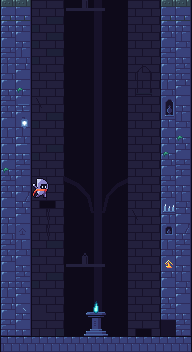
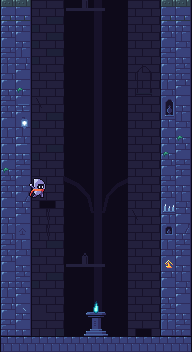
Studio : livrables en cours
Claude-Session: https://claude.ai/code/session_013wkJT9ZrGrrZzfFCfUVAVk

Changed region(s): [[0.8125, 0.9062, 0.9375, 0.9688], [0.1562, 0.5, 0.25, 0.5625]]

diff --git a/jeu/art/out/env/maquette_fonderie.py b/jeu/art/out/env/maquette_fonderie.py
@@ -1,0 +1,45 @@
+#!/usr/bin/env python3
+"""maquette_fonderie.py : mise en situation 192x352 de la Fonderie (procédure F6/F7), même montage que maquette_crypte.py.
+P0/P1 : la Fonderie n'a pas encore de bg0/bg1 propres -> aplat k (#0e0a1a) pour juger murs et bg2 sans aide.
+bg2_fonderie en deux bandes x32-63 et x128-159 ; murs : haut = transition vers la Bibliothèque (y1/y0), bas = transition
+depuis la Crypte (x1/x0) puis une tuile de crypte ; autel palette-swap + flamme sur le sol ; héros idle au mur gauche."""
+from PIL import Image
+import sys
+D = "/home/user/Testing/jeu/art/out/env/"
+HERO = sys.argv[1]
+im = lambda n: Image.open(D + n + ".png").convert("RGBA")
+t = lambda img, x, y, w, h: img.crop((x, y, x + w, y + h))
+W, H = 192, 352
+out = Image.new("RGBA", (W, H), (0x0e, 0x0a, 0x1a, 255))
+bg2 = im("bg2_fonderie")
+P = [t(bg2, i * 32, 0, 32, 32) for i in range(4)]
+for x, seq in ((32, "0010203001200130"), (128, "0100300210020010")):
+    for j, c in enumerate(seq[:11]):
+        out.alpha_composite(P[int(c)], (x, j * 32))
+S = {}
+for side in "LR":
+    S["t", side] = im("wall_fonderie_" + side); S["l", side] = im("wall_fonderie_lit_" + side)
+    S["d", side] = im("wall_fonderie_deco_" + side); S["r", side] = im("rune_fonderie_" + side)
+    S["y", side] = im("wall_fonderie_to_bibliotheque_" + side); S["x", side] = im("wall_crypte_to_fonderie_" + side)
+    S["c", side] = im("wall_crypte_" + side)
+def col(x, side, seq):
+    y = 0
+    for s in seq.split():
+        k, i = s[0], int(s[1:])
+        h = 32 if k == "d" else 16
+        out.alpha_composite(t(S[k, side], i * 16, 0, 16, h), (x, y)); y += h
+SEQ_LI = "y1 y0 t0 t2 t1 t4 l0 d0 l1 t3 t0 t5 t1 r1 t2 t0 t3 t1 t7 x1 x0"
+SEQ_RI = "y1 y0 t1 t3 t0 t2 d1 t0 t4 t1 t3 d2 t6 t2 r0 t1 t0 x1 x0"
+SEQ_LO = "y1 y0 t1 t3 t2 t0 t3 t1 t2 t0 t4 t3 t1 t0 t2 t3 t1 t0 t2 x1 x0"
+SEQ_RO = "y1 y0 t2 t0 t3 t1 t0 t2 t4 t1 t3 t0 t2 t1 d3 t0 t2 t1 x1 x0"
+col(16, "L", SEQ_LI); col(0, "R", SEQ_LO); col(160, "R", SEQ_RI); col(176, "L", SEQ_RO)
+fl = im("floor_start")
+for i in range(12):
+    out.alpha_composite(t(fl, 0 if i == 0 else 32 if i == 11 else 16, 0, 16, 16), (i * 16, 336))
+out.alpha_composite(im("altar_fonderie"), (80, 304))
+out.alpha_composite(t(im("altar_flame"), 16, 0, 8, 16), (92, 299))
+out.alpha_composite(Image.open(HERO).convert("RGBA").crop((0, 0, 32, 32)), (22, 170))
+out.save(D + "maquette_fonderie.png")
+out.resize((W * 3, H * 3), Image.NEAREST).save(D + "maquette_fonderie@3.png")
+out.crop((6, 0, 186, H)).resize((180 * 3, H * 3), Image.NEAREST).save(D + "maquette_fonderie_ecran@3.png")
+print("ok")

diff --git a/jeu/game/assets/fx/MANIFEST.md b/jeu/game/assets/fx/MANIFEST.md
@@ -1,0 +1,57 @@
+# MANIFEST : game/assets/fx (F2 Écho et gravure · F4 Collectibles et FX · autel)
+
+Sources : `art/src/fx/*.txt`, produites par `python3 art/src/fx/fx_assets.py [nom]`. Les grilles sont dessinées à la main.
+Rendus ×8 et planches de contrôle : `art/out/fx/`. Vue en situation : `art/out/fx/situation_fx.png`.
+Toutes les couleurs viennent de palette_v2. Bandes horizontales, une cellule par image, pivot constant.
+Pivot (x,y) en pixels, mesuré depuis le coin haut-gauche de la cellule.
+
+## F4 : collectibles et power-ups
+| Fichier | Cellule | Images | Cadence | Pivot | Usage |
+|---|---|---|---|---|---|
+| shard.png | 8×8 | 6 | 8 fps, en boucle | (4,4) | Petit éclat d'or (g G y, contour o) : rotation, puis éclat. Remplace `sprites/shard` (4×8) : prendre `f = int(t*8) % 6`. |
+| shard_big.png | 16×16 | 4 | 4 fps, en boucle | (8,8) | Gros éclat (gemme 10×10, facette W) qui scintille. Remplace le polygone actuel. |
+| shard_pop.png | 16×16 | 5 | 40·50·60·70·80 ms, une fois | (8,8) | Ramassage : pop, puis 4 étincelles y. |
+| powerup_bubble.png | 16×16 | 4 | 4 fps, en boucle | (8,8) | Bulle 12×12 (contour G) avec reflet, flottement d'1 px intégré. Poser l'icône en (4, 4+dy) avec dy = 0,0,1,1. |
+| pu_burin.png / pu_plume.png / pu_calm.png | 8×8 | 1 | — | (4,4) | Icônes dans la bulle : burin c e, plume w p, accalmie J j U. |
+| feather_gold.png | 16×16 | 6 | 6 fps, en boucle | (8,8) | Plume dorée qui se balance en aller-retour. |
+| pu_magnet.png / pu_lantern.png / pu_gold.png (P1) | 8×8 | 1 | — | (4,4) | Icônes P1 : aimant, lanterne, pluie d'or. |
+| fx_magnet.png (P1) | 16×16 | 3 | 10 fps, en boucle | (8,6) | Arcs G de l'aimant autour du héros. |
+| lantern_flame.png (P1) | 8×8 | 4 | 10 fps, en boucle | (4,8) | Flamme de la lanterne (A a o, contour r). |
+| relic_fragment.png (P1) | 8×8 | 4 | 6 fps, en boucle | (4,4) | Fragment de relique : pierre m l, cœur G. |
+| moon_shard.png (P1) | 16×16 | 4 | 4 fps, en boucle | (8,8) | Éclat de lune : w W, contour l. |
+
+## F4 : FX de mouvement et particules
+| Fichier | Cellule | Images | Cadence | Pivot | Usage |
+|---|---|---|---|---|---|
+| fx_dust_wall.png | 16×16 | 4 | 12 fps, en boucle pendant la glissade | (0,12) | Poussière p/l. Mur à GAUCHE de la cellule ; `flip_h` pour le mur droit. |
+| fx_jump_puff.png | 16×16 | 4 | 50·70·90·110 ms, une fois | (8,9) | Bouffée de saut, du clair (w) au sombre (m), effacée par morceaux. |
+| fx_land.png | 16×16 | 4 | 40·60·80·100 ms, une fois | (0,7) | Impact sur le mur : 1 image de flash w, puis éclats p → l → m. Mur à gauche ; `flip_h` pour le mur droit. |
+| fx_turn.png | 16×16 | 3 | 50·70·90 ms, une fois | (8,8) | Volte normale (y G g o). |
+| fx_turn_echo.png | 16×16 | 3 | 50·70·90 ms, une fois | (8,8) | Volte rechargée par l'écho (e c t q), même dessin que fx_turn. |
+| fx_graze.png | 16×16 | 3 | 30·50·50 ms, une fois | (8,8) | Frôlé : étincelle w de 3 px, rien d'autre. |
+| fx_spark.png | 8×8 | 5 | 60 ms, une fois | (3.5,3.5) | Étincelle générique : point → croix 3 → croix 5 → croix 3 → point. |
+| picto_tap.png | 16×16 | 2 | 400·300 ms, en boucle | (8,16) | Onboarding : main qui tape (même main que `sprites/tap`). |
+| picto_hold.png | 16×16 | 4 | 70 ms par image, puis tenir l'image 3 | (8,16) | Main tenue, avec une barre de 0,28 s qui se remplit. |
+| picto_turn.png | 16×16 | 2 | 350 ms, en boucle | (8,16) | Main et flèche courbe (volte). |
+| picto_echo.png | 16×16 | 2 | 350 ms, en boucle | (8,16) | Losange d'écho et flèche de volte. |
+
+## F2 : écho et gravure
+| Fichier | Cellule | Images | Cadence | Pivot | Usage |
+|---|---|---|---|---|---|
+| fx_engrave_wave.png | 80×80 | 6 | 40·50·60·70·80·90 ms, une fois | (40,40) | Onde de gravure de rayon 0 → 40 (anneau e/c/t qui s'amincit), placée au point d'impact (t = 0,63 s). Remplace le clignotement à 20 Hz. |
+| fx_engrave_seal.png | 16×16 | 4 | 50·60·60 ms, puis tenir l'image 3 | (7.5,7.5) | Pop du sceau d'écho sur le piège gravé. |
+| grave.png (P1) | 16×16 | 4 | 2400·80·100·80 ms, en boucle | (7.5,7.5) | Sceau gravé qui lance un éclat lent. Remplace `sprites/grave` (8 px). |
+| echo_shard.png | 8×8 | 4 | 8 fps, en boucle | (4,4) | Éclat d'écho au point de mort (e c t, cœur W, contour q). Pour un fantôme, appliquer une opacité de 50 % avec `modulate`. |
+| fx_echo_recharge.png | 16×16 | 4 | 50·50·60·90 ms, une fois | (7.5,7.5) | Contact cyan : les particules convergent, flash, puis anneau. |
+| fx_echo_trail.png | 8×8 | 4 | 60 ms, une fois ; émettre toutes les 2 images | (4,4) | Traînée du fantôme-guide (c e → t). |
+| fx_death_burst.png (P1) | 32×32 | 6 | 33·80·90·100·110·120 ms, une fois | (16,16) | Volutes détachées du corps : flash W, puis I → i → H → h, effacées par morceaux. |
+
+## Autel
+| Fichier | Cellule | Images | Cadence | Pivot | Usage |
+|---|---|---|---|---|---|
+| altar.png | 32×32 | 2 (états) | — | (16,32) | Image 0 : autel éteint. Image 1 : autel allumé (glyphe e/W, vasque q/t, dessus éclairés). Remplace le rectangle d/a actuel. |
+| altar_flame.png | 8×16 | 6 | 10 fps, en boucle | (4,16) | Flamme cyan, affichée seulement quand l'autel est allumé. Coin haut-gauche à (+12, −5) depuis le coin haut-gauche de l'autel. |
+
+## Notes pour le moteur (aucun .gd n'a été modifié)
+- `world_draw.gd` lit encore `sprites/shard` (4 images) et dessine en code le gros éclat, la bulle, l'autel et l'onde. Ces fichiers sont prêts à les remplacer.
+- Aucun halo n'est intégré à ces sprites. Les halos additifs restent ceux de F8 (`halo_s/m/l`).

diff --git a/jeu/game/assets/tide/MANIFEST.md b/jeu/game/assets/tide/MANIFEST.md
@@ -1,0 +1,20 @@
+# MANIFEST : game/assets/tide (F5 Marée et eau)
+
+Sources : `art/src/tide/*.txt`, produites par `python3 art/src/tide/tide_assets.py [nom]`. Les grilles sont dessinées à la main.
+Rendus ×8 et planches de contrôle : `art/out/tide/`. Vue en situation : `art/out/tide/situation_fx.png`.
+Couleurs : palette_v2 seulement. Marée : u U j J. Eau O18 : 0 9 p.
+
+| Fichier | Cellule | Images | Cadence | Pivot | Usage |
+|---|---|---|---|---|---|
+| tide_crest.png | 32×16 | 4 | 150 ms, en boucle | haut-gauche | Crête de la marée, tuile répétée en x (6 × 32 = 192). L'écume J et la crête j sont en haut ; la rangée 15 est en u et se raccorde à tide_body. Les images font défiler la crête de 8 px (boucle exacte). Poser la tuile à y = niveau de la marée − 5. |
+| tide_body.png | 32×32 | 1 | — | haut-gauche | Corps de la marée, tuile répétée en x et en y, sous la crête. Le cycle u ↔ U se fait dans le shader. |
+| tide_glow.png | 32×16 | 1 | — | haut-gauche | Halo en 3 paliers durs (j à 12 / 22 / 35 % d'opacité, intégrée au PNG). Mode **additif** (`CanvasItemMaterial.blend_mode = BLEND_MODE_ADD`). Son bas touche le haut de tide_crest. Tuile en x. |
+| pal_tide.png | 4×1 | — | — | — | Palette de référence, dans l'ordre u U j J (entrée de l'échange de palette). |
+| pal_tide_calm.png | 4×1 | — | — | — | Palette d'Accalmie u U J J : la crête passe de j à J. Pendant l'Accalmie, figer tide_crest sur son image courante. |
+| water_surface.png | 16×16 | 4 | 200 ms, en boucle | haut-gauche, ligne d'eau en y = 1 | Surface O18 : ligne 9 qui ondule d'1 px, fond 0. Tuile en x. |
+| water_body.png | 16×16 | 1 | — | haut-gauche | Eau profonde 0 avec 3 caustiques 9. Tuile en x et en y ; cycle 0/9 dans le shader (4 états, 200 ms). |
+| bubble.png | 8×8 | 3 | images 0-1 : 300 ms en boucle pendant la montée ; image 2 : 80 ms à la surface | (4,4) | Bulle p avec un reflet w ; elle éclate en 4 points. |
+| tide_motes.png (P1) | 8×8 | 4 | 120 ms, une fois | (4,8) | Particule qui monte de la marée (U → j → J → j). Remplace les points U dessinés en code. |
+| tide_warning.png (P1) | 16×16 | 2 | 250 ms, en boucle | (8,16) | Double chevron « la marée monte », posé au bas de l'écran. |
+
+Notes pour le moteur (aucun .gd n'a été modifié) : `world_draw.gd` lit encore `sprites/tide` (16×16, 2 images à 4 fps) et remplit le corps en u. Pour passer à F5, dessiner tide_glow (additif), puis tide_crest, puis tide_body en tuiles.
